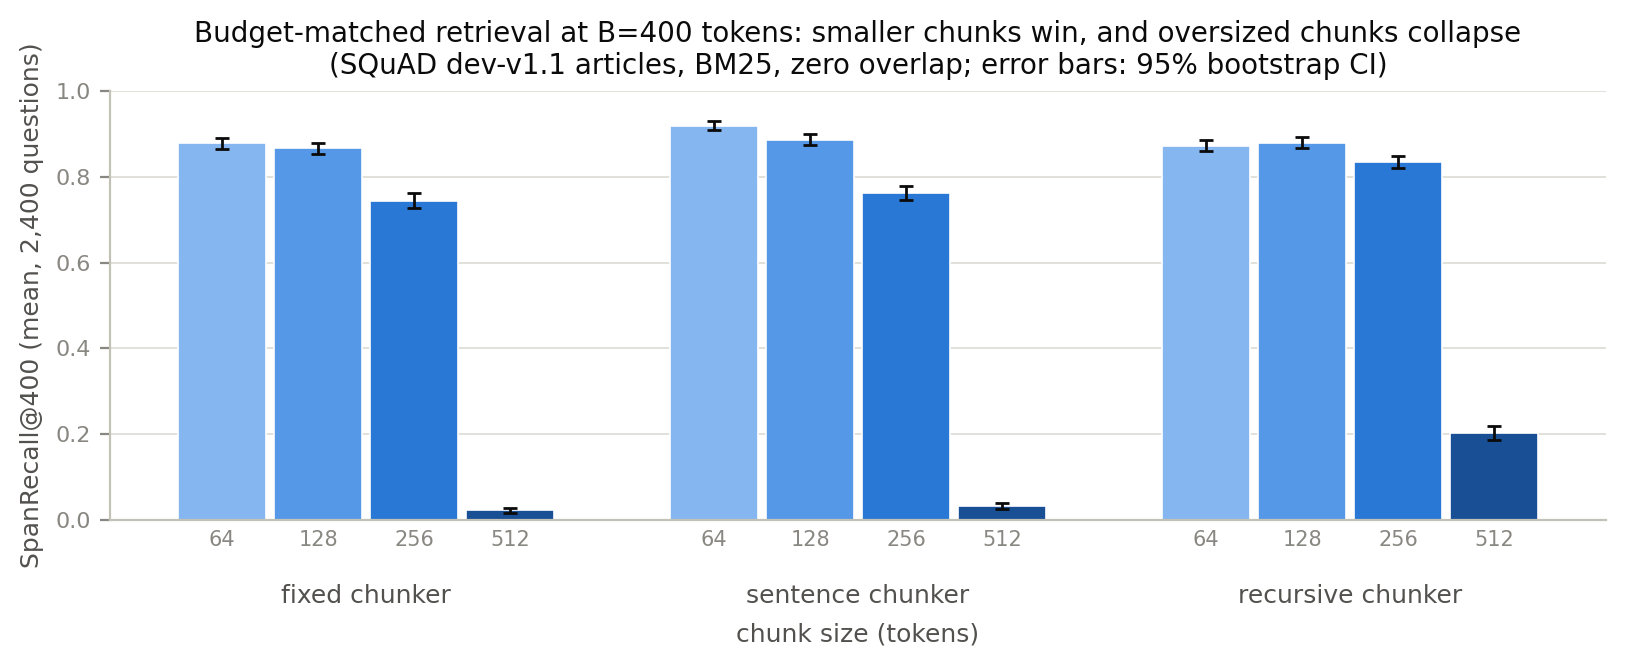
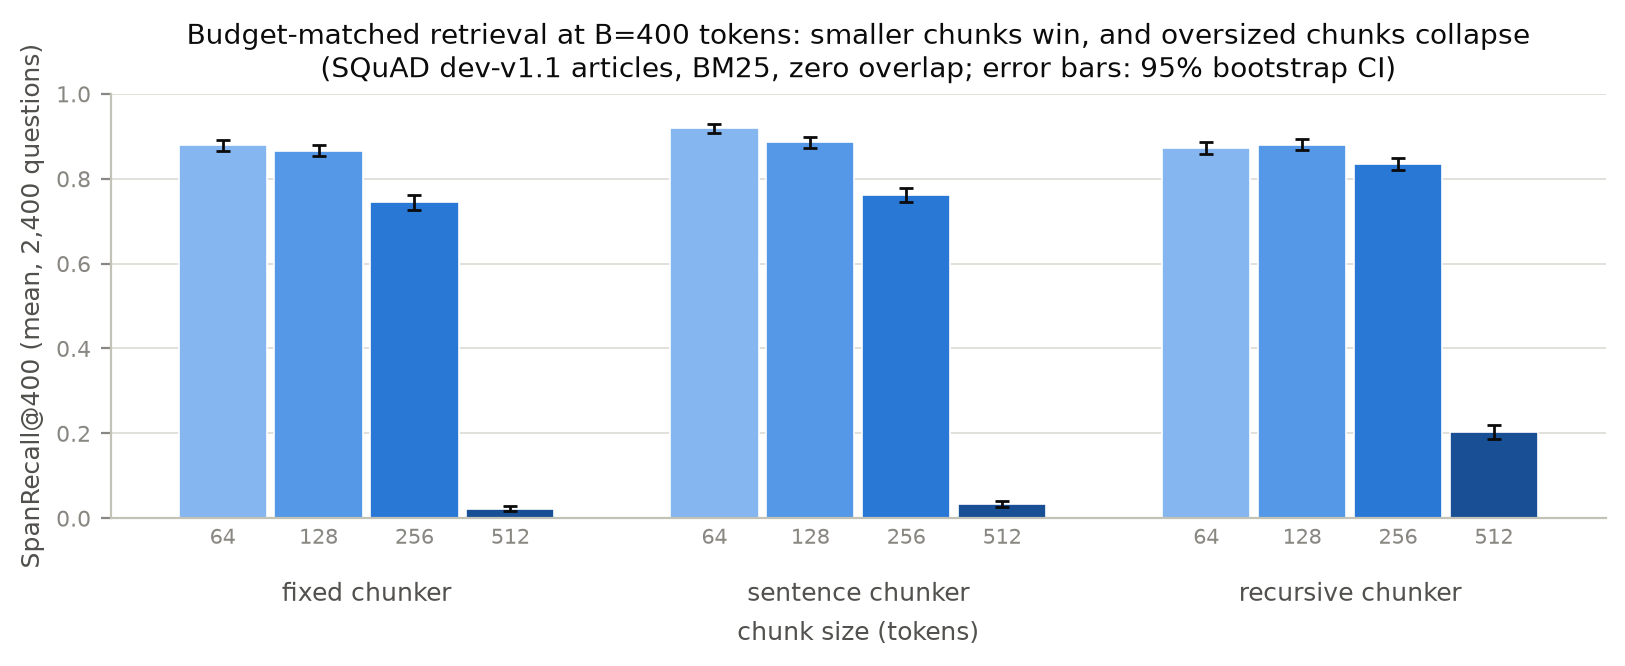
Close out the writeup: record the clean-environment audit, route the command blocks through the manifest, re-render the hero figure locally
The audit verified all 41 artifacts byte-identical in a fresh clone
with refetched data, so the Status and Reproducing sections now state
that with the tables-vs-figures byte-identity caveats. Both command
blocks had drifted from the entry points (neither listed the matched,
semantic, or tokenizer summarizers); they now point at
experiments.reproduce and its manifest. The hero PNG was the one file
rendered outside this environment — replaced with the locally
reproducible render (visually identical, verified from two independent
venvs). Also fixed a stale caption cross-reference (finding 4 -> 5).

diff --git a/rag-chunking-bench/README.md b/rag-chunking-bench/README.md
@@ -219,15 +219,14 @@ python -m experiments.run_grid --chunkers fixed --sizes 64 --overlaps 8 16 32   
 python -m experiments.run_grid --seed 1       # independent question sample (multi-seed check)
 python -m experiments.run_grid --dataset chroma --per-doc-cap 150 --retrievers bm25 tfidf lsa dense
                                               # long-reference corpora, all four retrievers (~7 min)
-python -m experiments.summarize               # baseline tables incl. paired CIs -> results/summary_*.md
-python -m experiments.summarize_ablations     # overlap + budget-rule tables -> results/summary_*_ablations.md
-python -m experiments.summarize_retrievers    # retriever x chunker tables -> results/summary_*_retrievers.md
-python -m experiments.summarize_seeds         # per-seed robustness tables -> results/summary_*_seeds.md
-python -m experiments.summarize_chroma        # per-corpus + gold-length moderation -> results/summary_chroma_*_moderation.md
-python -m experiments.summarize_errors        # composition test, loss taxonomy, overlap decomposition -> results/summary_chroma_*_errors.md
-python -m experiments.make_figures            # figures -> results/figures/
-python -m experiments.make_hero_figure        # headline figure -> assets/
+python -m experiments.reproduce --write       # regenerate every summary table and figure from results/raw/
+python -m experiments.reproduce               # ...or audit: regenerate to a scratch dir, byte-compare vs. committed
 ```
+
+The manifest in `experiments/reproduce.py` is the authoritative map from each
+committed table and figure to the exact summarizer invocation that produces
+it (nine summarizers plus the two figure scripts; `tests/test_reproduce.py`
+pins the manifest to the committed artifact set).
 
 ### Baseline grid (phase 2, first slice)
 
@@ -259,7 +258,7 @@ questions (10,000 resamples). Full tables: [`results/summary_dev-v1.1_bm25.md`](
 *Budget curves per chunker family. Under budget matching, smaller chunks
 dominate at every budget: 64-token chunks are never worse than larger ones,
 and configs whose chunks exceed the budget collapse to ~0 (stop-before-exceed
-retrieves nothing — see finding 4). CI bands are barely visible at n=2,400.*
+retrieves nothing — see finding 5). CI bands are barely visible at n=2,400.*
 
 ### Baseline findings: the size effect and the fixed-k confound
 
@@ -1022,11 +1021,20 @@ generous ones is evidence that fits *inside* the chunk.
 - [x] Phase 4: writeup coherence pass — findings-at-a-glance navigation
       table, cross-finding reconciliation (1↔13, 6/16–17↔26, 14↔24,
       20–21↔22–23), limitations sweep incl. deliberately-unrun ablations
-- [ ] Phase 4: final reproduction audit — regenerate every summary table and
-      figure from the committed raw results in a clean environment and
-      verify them against the committed files — then release polish
+- [x] Phase 4: final reproduction audit + release — `experiments/reproduce.py`
+      maps all 41 committed artifacts (22 tables, 19 figures) to their
+      generating invocations and byte-compares regenerated output against
+      the committed files; run in a fresh clone with a fresh interpreter
+      and refetched data, it caught two stale ablation tables (the day-13
+      semantic truncate runs had leaked into the structural budget-rule
+      section — summarizer scoped to structural chunkers, regression
+      test added) and the one figure rendered outside this environment
+      (hero PNG re-rendered here, visually identical); all 41 artifacts
+      now verified byte-identical in the clean environment (365 tests)
 
-Day-by-day research log: [`research/NOTES.md`](research/NOTES.md).
+The experimental program and writeup are complete; the open residue is
+recorded under Limitations. Day-by-day research log:
+[`research/NOTES.md`](research/NOTES.md).
 
 ## Limitations
 
@@ -1148,21 +1156,14 @@ Day-by-day research log: [`research/NOTES.md`](research/NOTES.md).
 
 ```bash
 pip install -r requirements.txt
-python -m pytest tests/ -q          # 357 tests (dense tests skip without the dense stack)
+python -m pytest tests/ -q          # 365 tests (dense tests skip without the dense stack)
 python -m src.data                  # fetch SQuAD + Chroma corpora (pinned URLs + SHA256)
-python -m experiments.run_grid      # rerun the grid (results are resumable)
+python -m experiments.reproduce     # regenerate all 22 tables + 19 figures from the
+                                    # committed raw results and byte-compare vs. committed
+python -m experiments.run_grid      # rerun the grid itself (results are resumable)
 python -m experiments.run_grid --tokenizer cl100k   # the BPE-unit grid (finding 19)
 python -m experiments.run_grid --chunkers semantic --sizes 64 128 256 512  # finding 20 (needs the dense stack)
-python -m experiments.summarize
-python -m experiments.summarize_ablations
-python -m experiments.summarize_retrievers
-python -m experiments.summarize_seeds
-python -m experiments.summarize_chroma
-python -m experiments.summarize_tokenizers
-python -m experiments.summarize_semantic
-python -m experiments.summarize_errors
-python -m experiments.make_figures
-python -m experiments.make_hero_figure
+python -m experiments.calibrate_matched             # calibrated sentence sizes for findings 22-23
 ```
 
 Or with [uv](https://docs.astral.sh/uv/) (lockfile committed):
@@ -1184,3 +1185,15 @@ are deterministic on a fixed environment; across torch/BLAS builds,
 floating-point differences can perturb near-tied rankings, which is why
 every dense result file records the torch and sentence-transformers
 versions that produced it.
+
+The whole pipeline passed a clean-environment audit before release: in a
+fresh clone with a fresh interpreter and refetched data,
+`python -m experiments.reproduce` regenerated all 41 committed artifacts
+byte-identically from `results/raw/`. Two caveats calibrate expectations
+elsewhere: summary *tables* should be byte-identical on any machine, while
+figure PNG bytes also depend on the font stack beneath the pinned
+matplotlib — on a different OS, figure "drift" means re-render and compare
+visually (`--tables-only` restricts the audit to the tables). And the audit
+verifies summaries/figures given the committed raw results; regenerating
+the *dense and semantic raw results themselves* is environment-exact only
+(the torch/BLAS note above).